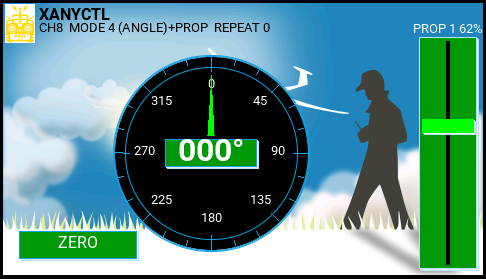
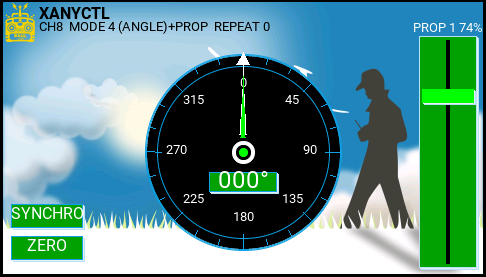
Updates
- update ANGLE+PROP picture
- add 2 widget picture

diff --git a/README.md b/README.md
@@ -178,6 +178,9 @@ Available widget options:
 
 ## 4. The sesult
 Screen height buttons  
+![](TWO_XANYCTL.png)
+
+Screen height buttons  
 ![](SW8.png)
 
 Screen height buttons and one slider  
